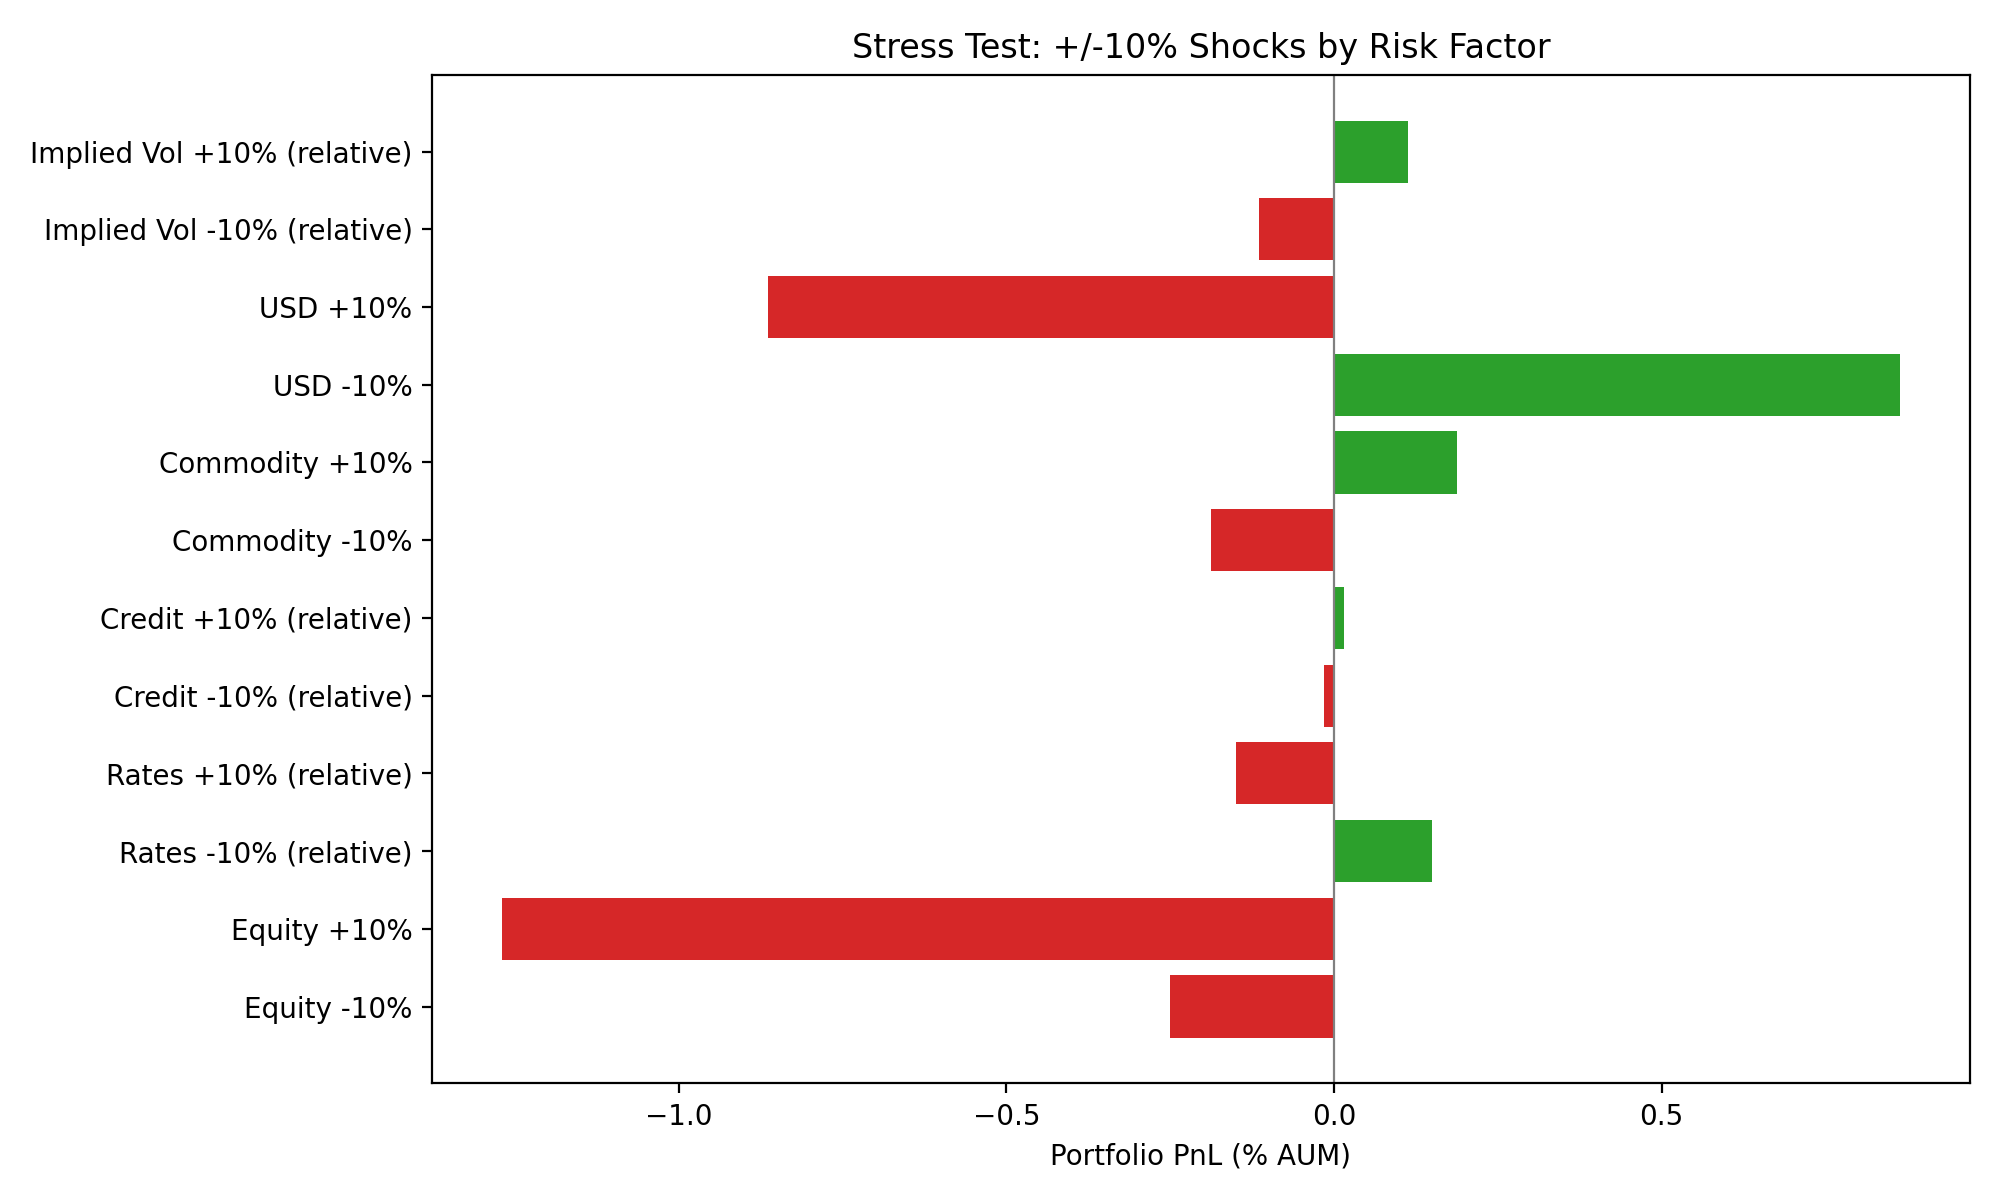
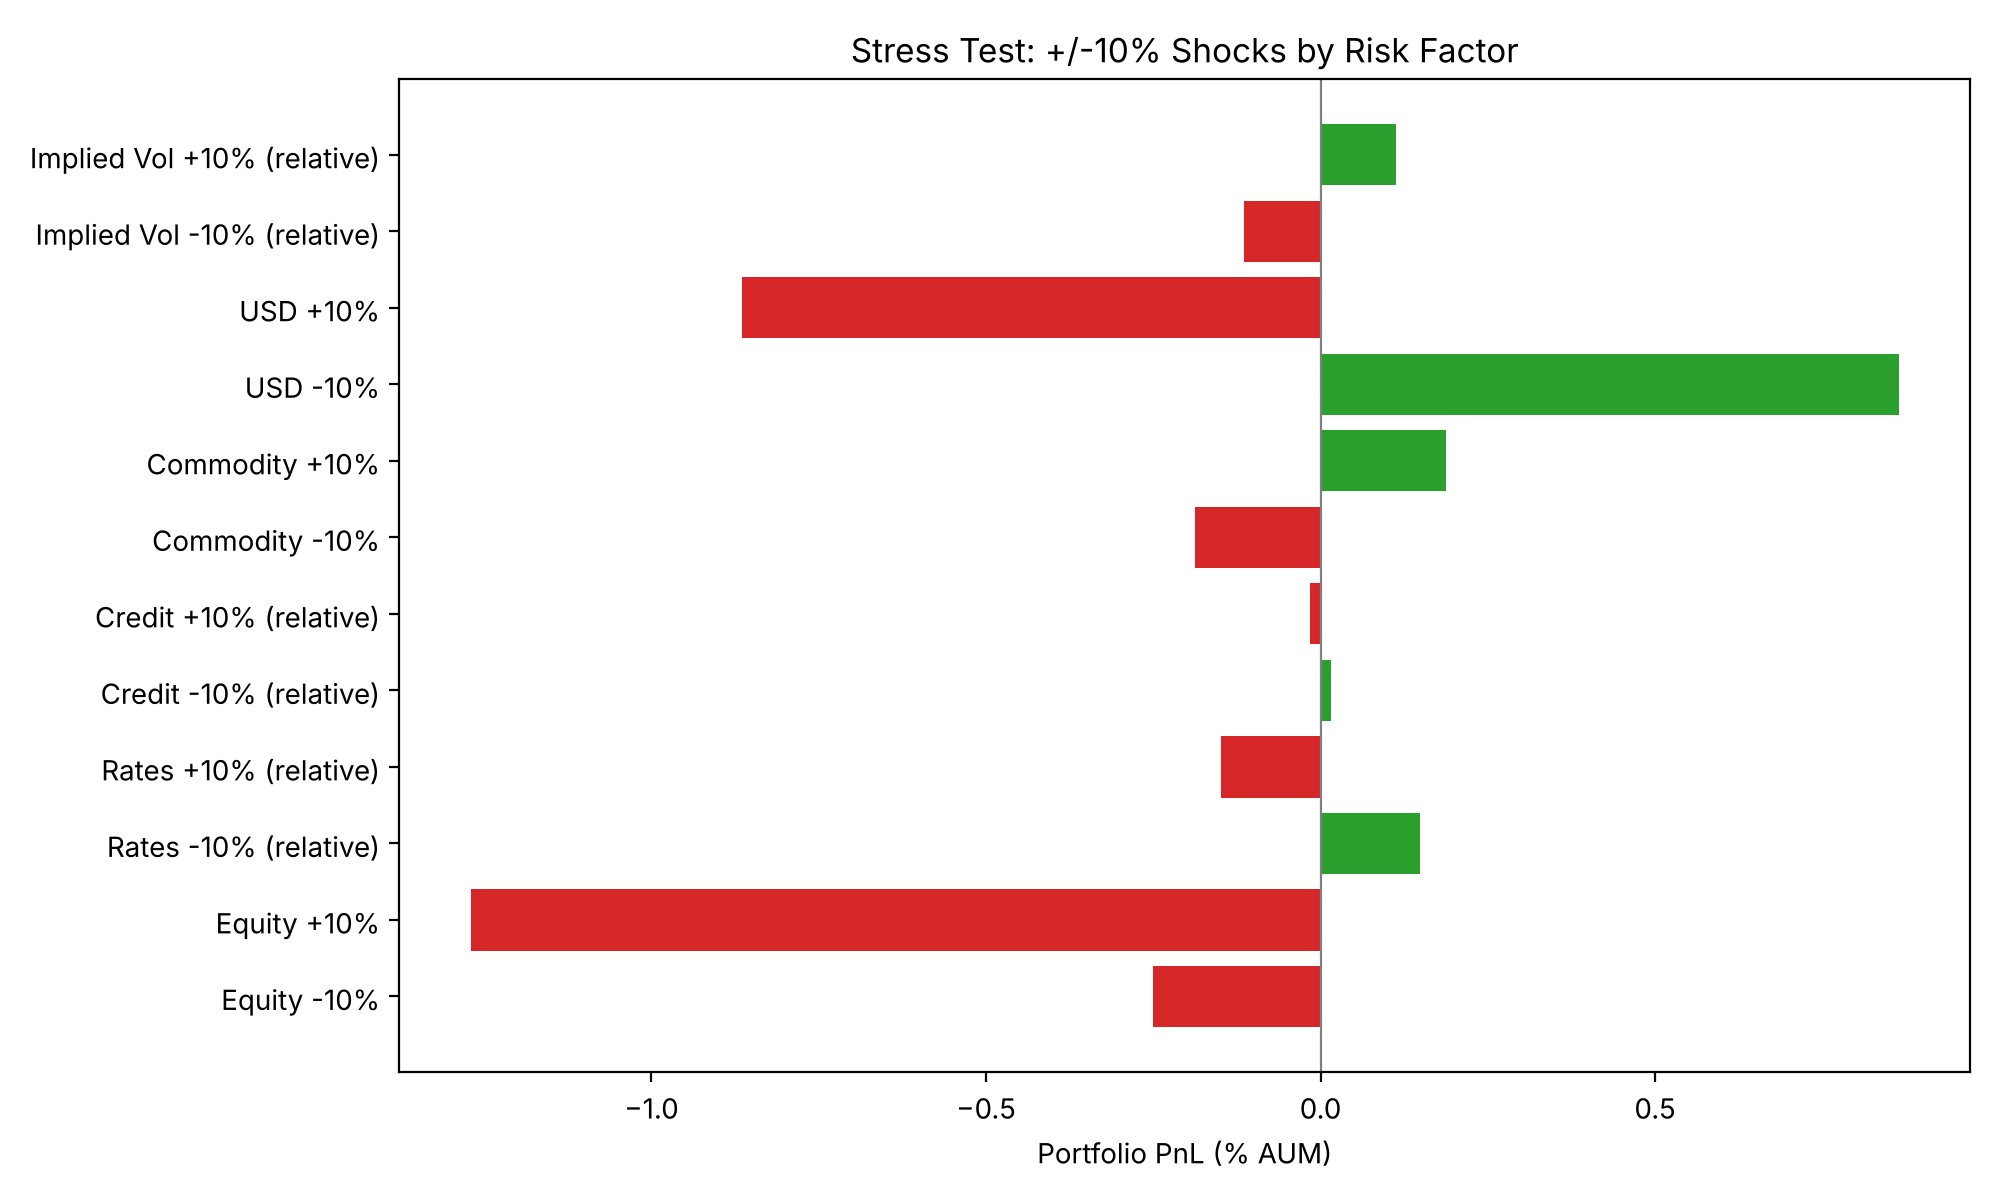
Fix CDX stress-test PnL sign (protection seller gained on widening)
CS01 for the sold-protection CDX is stored as PnL per +1bp of spread
widening (-7,250), the same convention the sensitivity table reports.
_cdx_value multiplied it by an extra minus sign, so a spread widening
showed a gain. Drop the extra sign and document the convention.

Credit +10% (spreads 52.5bp -> 57.75bp): +$38,062 -> -$38,062
Credit -10%: -$38,062 -> +$38,062

Exposure, margin and sensitivity outputs are unaffected.

Claude-Session: https://claude.ai/code/session_01RceETQwmWgTTNzsmtgfWcz

diff --git a/src/portfolio_risk/exposure_report.py b/src/portfolio_risk/exposure_report.py
@@ -117,7 +117,10 @@ def _irs_value(pos: dict, rate_shock_bps: float = 0.0) -> float:
 
 
 def _cdx_value(pos: dict, spread_shock_bps: float = 0.0) -> float:
-    return -pos["cs01"] * spread_shock_bps
+    """PnL for a spread shock. CS01 is stored as PnL per +1bp of spread widening
+    (negative for sold protection, matching the sensitivity table), so a
+    widening shock loses money for a protection seller."""
+    return pos["cs01"] * spread_shock_bps
 
 
 def _fx_forward_exposure_usd(pos: dict, usd_shock: float = 0.0) -> float:
